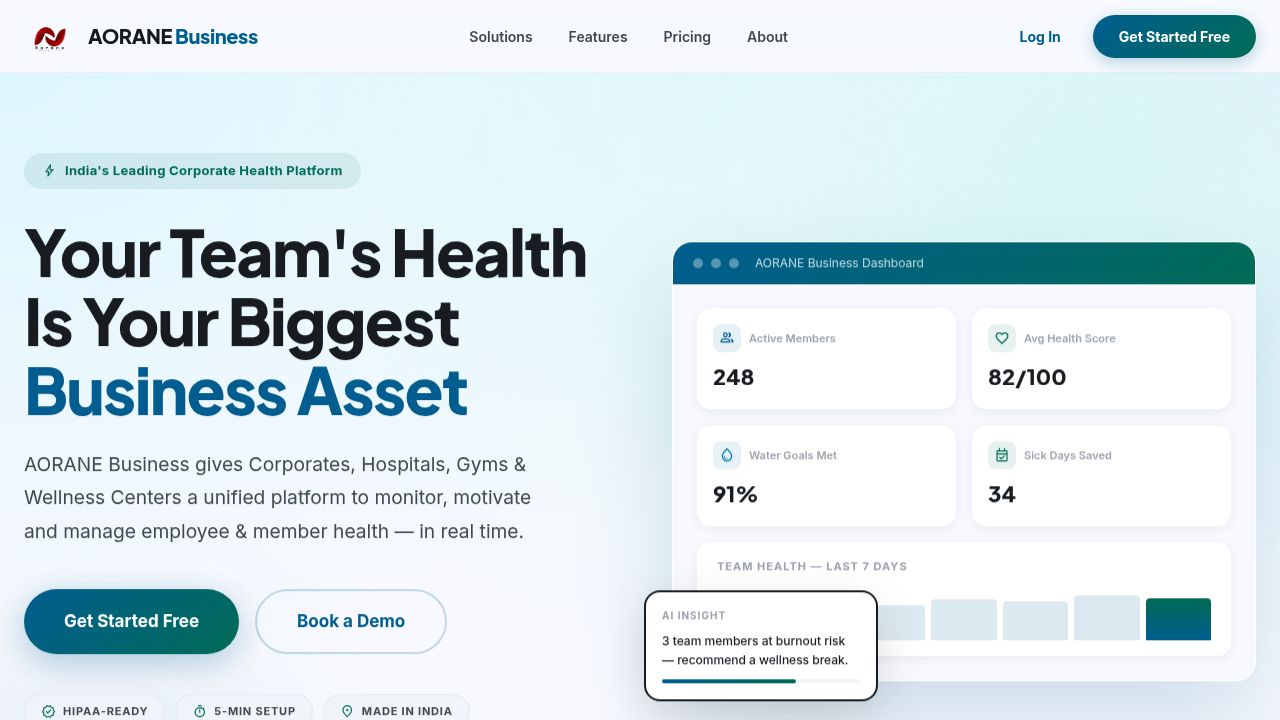
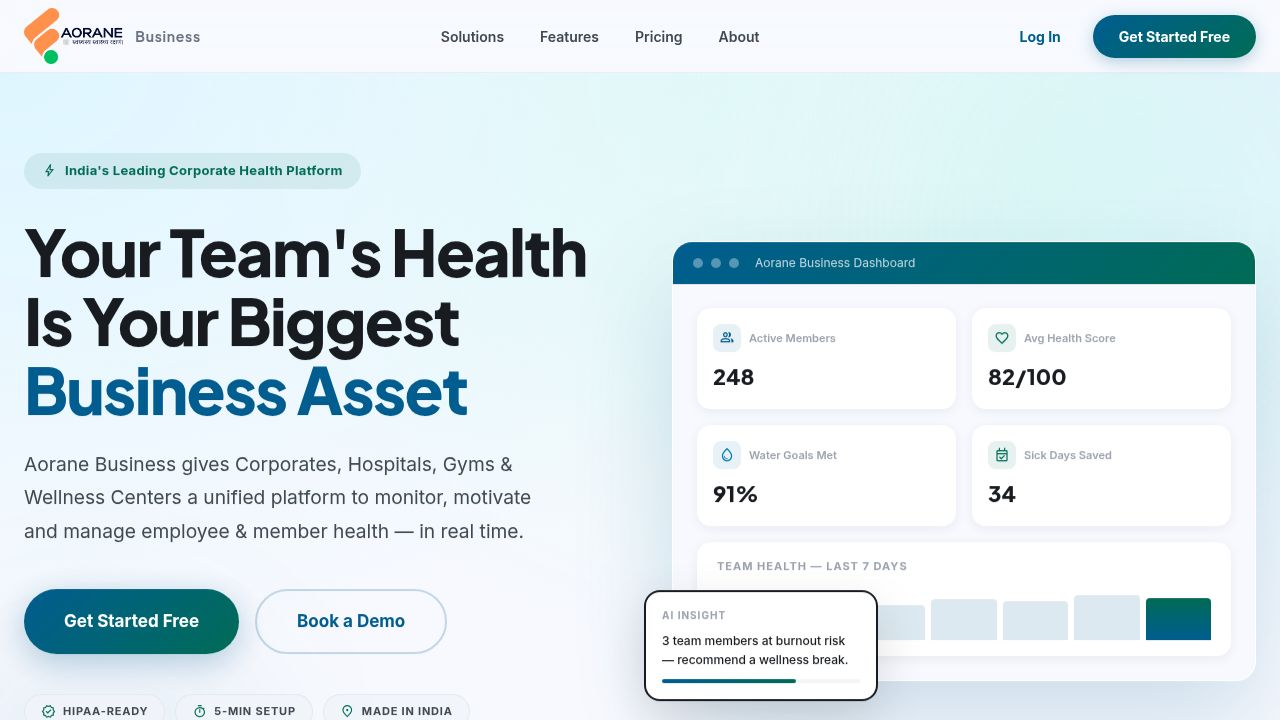
feat(business-portal): Phase 1 — Stitch design foundation
- Add Plus Jakarta Sans, Inter, JetBrains Mono, Noto Sans Devanagari, Material Symbols
- New utility classes: .font-display, .font-deva, .font-mono-data, .glass-card, .pill-chip, .kpi-number
- Switch sidebar to LIGHT theme (white) — Stitch-aligned
- Layout revamp: AORANE wordmark + आज़ाद जीवन subtitle, refined nav, light profile row
- Topbar: org-code pill (gated), notification bell, status footer (DPDP compliant • India)
- Dashboard: hero greeting card with time-aware salutation + Org Health Index pill
- KPI cards: rounded-2xl, kpi-number font, refined icon chip

ZERO backend / API / DB changes. All gating logic preserved.
Phase 1 of Stitch business-portal redesign.

diff --git a/artifacts/business-portal/src/components/Layout.tsx b/artifacts/business-portal/src/components/Layout.tsx
@@ -3,7 +3,7 @@ import { Link, useRoute } from "wouter";
 import { useAuth } from "@/context/AuthContext";
 import {
   LayoutDashboard, Users, QrCode, Settings, LogOut,
-  Menu, X, Building2, ChevronRight, Bell,
+  Menu, X, Bell, ChevronRight,
   BarChart2, Megaphone, CreditCard, ShieldCheck,
 } from "lucide-react";
 
@@ -22,13 +22,15 @@ function NavItem({ path, icon: Icon, label }: { path: string; icon: React.Elemen
   const [isActive] = useRoute(path);
   return (
     <Link href={path}>
-      <div className={`flex items-center gap-3 px-4 py-2.5 rounded-lg cursor-pointer transition-all duration-200 group
+      <div
+        className={`flex items-center gap-3 px-3 py-2.5 rounded-lg cursor-pointer transition-all duration-150 group
         ${isActive
-          ? "bg-primary/20 text-primary font-semibold"
-          : "text-sidebar-foreground/70 hover:bg-white/8 hover:text-sidebar-foreground"
-        }`}>
-        <Icon size={18} className={isActive ? "text-primary" : ""} />
-        <span className="text-sm">{label}</span>
+          ? "bg-primary/10 text-primary font-semibold"
+          : "text-foreground/70 hover:bg-sidebar-accent hover:text-foreground"
+        }`}
+      >
+        <Icon size={18} className={isActive ? "text-primary" : "text-foreground/55 group-hover:text-foreground/80"} />
+        <span className="text-sm font-medium">{label}</span>
         {isActive && <ChevronRight size={14} className="ml-auto text-primary" />}
       </div>
     </Link>
@@ -50,60 +52,77 @@ export default function Layout({ children }: { children: React.ReactNode }) {
     other: "Organization",
   };
 
+  const seatPct = org ? Math.min(100, (org.usedSeats / Math.max(1, org.totalSeats)) * 100) : 0;
+
   return (
     <div className="flex h-screen bg-background overflow-hidden">
       {/* Sidebar */}
-      <aside className={`fixed inset-y-0 left-0 z-50 w-64 bg-sidebar flex flex-col transition-transform duration-300
-        ${mobileOpen ? "translate-x-0" : "-translate-x-full"} lg:translate-x-0 lg:static lg:flex`}>
-
-        {/* Logo */}
-        <div className="px-6 pt-6 pb-4 border-b border-sidebar-border">
-          <Link href="/">
+      <aside
+        className={`fixed inset-y-0 left-0 z-50 w-64 bg-sidebar border-r border-sidebar-border flex flex-col transition-transform duration-300
+        ${mobileOpen ? "translate-x-0" : "-translate-x-full"} lg:translate-x-0 lg:static lg:flex`}
+      >
+        {/* Logo / Wordmark */}
+        <div className="px-5 pt-5 pb-4 border-b border-sidebar-border">
+          <Link href="/dashboard">
             <a className="flex items-center gap-3 cursor-pointer" aria-label="Business portal home">
-              <img src={import.meta.env.BASE_URL + 'logo-full.png?v=3'} alt="Aorane" style={{ height: 56, width: "auto", objectFit: "contain", background: "white", borderRadius: 8, padding: 4 }} />
-              <div>
-                <div className="text-sidebar-foreground/50 text-xs">Business Portal</div>
+              <div className="w-10 h-10 rounded-full bg-gradient-to-br from-primary to-secondary flex items-center justify-center shadow-sm shrink-0">
+                <span className="text-white font-bold text-lg font-display">A</span>
+              </div>
+              <div className="leading-tight">
+                <div className="font-display font-extrabold text-lg tracking-tight text-foreground">AORANE</div>
+                <div className="font-deva text-[11px] text-primary/80 -mt-0.5">आज़ाद जीवन</div>
               </div>
             </a>
           </Link>
 
-          {/* Org info */}
-          <div className="mt-4 p-3 rounded-lg bg-white/5 border border-white/8">
-            <div className="text-white/90 text-sm font-semibold truncate">{org?.name}</div>
-            <div className="text-white/40 text-xs mt-0.5">{orgTypeLabels[org?.orgType || ""] || "Organization"}</div>
-            <div className="flex items-center gap-1 mt-2">
-              <div className="h-1.5 flex-1 bg-white/10 rounded-full overflow-hidden">
-                <div
-                  className="h-full bg-primary rounded-full transition-all"
-                  style={{ width: `${Math.min(100, ((org?.usedSeats || 0) / (org?.totalSeats || 1)) * 100)}%` }}
-                />
+          {/* Org info card */}
+          {org && (
+            <div className="mt-4 p-3 rounded-xl bg-sidebar-accent/60 border border-sidebar-border">
+              <div className="text-foreground text-sm font-semibold truncate">{org.name}</div>
+              <div className="text-muted-foreground text-[11px] mt-0.5">{orgTypeLabels[org.orgType || ""] || "Organization"}</div>
+              <div className="flex items-center gap-2 mt-2">
+                <div className="h-1.5 flex-1 bg-muted rounded-full overflow-hidden">
+                  <div
+                    className="h-full bg-gradient-to-r from-primary to-secondary rounded-full transition-all"
+                    style={{ width: `${seatPct}%` }}
+                  />
+                </div>
+                <span className="text-muted-foreground text-[10px] font-mono-data tabular-nums">
+                  {org.usedSeats}/{org.totalSeats}
+                </span>
               </div>
-              <span className="text-white/40 text-xs">{org?.usedSeats}/{org?.totalSeats}</span>
             </div>
-          </div>
+          )}
         </div>
 
         {/* Nav */}
-        <nav className="flex-1 px-3 py-4 space-y-1 overflow-y-auto">
+        <nav className="flex-1 px-3 py-4 space-y-0.5 overflow-y-auto">
           {navItems.map((item) => (
-            <NavItem key={item.path} {...item} />
+            <div key={item.path} onClick={() => setMobileOpen(false)}>
+              <NavItem {...item} />
+            </div>
           ))}
         </nav>
 
         {/* User footer */}
-        <div className="px-3 pb-4 border-t border-sidebar-border pt-4">
-          <div className="flex items-center gap-3 px-3 py-2 rounded-lg">
-            <div className="w-8 h-8 rounded-full bg-primary/30 flex items-center justify-center">
-              <span className="text-primary text-sm font-bold">
-                {admin?.fullName?.charAt(0).toUpperCase()}
+        <div className="px-3 pb-4 pt-3 border-t border-sidebar-border">
+          <div className="flex items-center gap-3 px-2 py-2 rounded-lg hover:bg-sidebar-accent transition-colors">
+            <div className="w-9 h-9 rounded-full bg-gradient-to-br from-primary/20 to-secondary/20 flex items-center justify-center shrink-0 border border-primary/15">
+              <span className="text-primary text-sm font-bold font-display">
+                {admin?.fullName?.charAt(0).toUpperCase() || "A"}
               </span>
             </div>
             <div className="flex-1 min-w-0">
-              <div className="text-white/90 text-sm font-medium truncate">{admin?.fullName}</div>
-              <div className="text-white/40 text-xs capitalize">{admin?.role}</div>
+              <div className="text-foreground text-sm font-medium truncate">{admin?.fullName}</div>
+              <div className="text-muted-foreground text-[11px] capitalize">{admin?.role || "admin"}</div>
             </div>
-            <button onClick={logout} className="text-white/30 hover:text-destructive transition-colors p-1 rounded" title="Logout">
-              <LogOut size={16} />
+            <button
+              onClick={logout}
+              className="text-muted-foreground hover:text-destructive transition-colors p-1.5 rounded"
+              title="Logout"
+              aria-label="Logout"
+            >
+              <LogOut size={15} />
             </button>
           </div>
         </div>
@@ -111,36 +130,52 @@ export default function Layout({ children }: { children: React.ReactNode }) {
 
       {/* Mobile overlay */}
       {mobileOpen && (
-        <div className="fixed inset-0 bg-black/60 z-40 lg:hidden" onClick={() => setMobileOpen(false)} />
+        <div className="fixed inset-0 bg-black/40 backdrop-blur-sm z-40 lg:hidden" onClick={() => setMobileOpen(false)} />
       )}
 
       {/* Main */}
       <div className="flex-1 flex flex-col min-w-0 overflow-hidden">
         {/* Topbar */}
-        <header className="h-14 bg-card border-b border-border flex items-center gap-4 px-4 shrink-0">
+        <header className="h-14 bg-card/80 backdrop-blur-md border-b border-border flex items-center gap-3 px-4 shrink-0">
           <button
             className="lg:hidden p-2 rounded-lg hover:bg-muted transition-colors"
             onClick={() => setMobileOpen(!mobileOpen)}
+            aria-label="Toggle menu"
           >
             {mobileOpen ? <X size={20} /> : <Menu size={20} />}
           </button>
           <div className="flex-1" />
-          <div className="flex items-center gap-3">
-            {isPaidActive && (
-              <span className="text-xs text-muted-foreground bg-muted px-2 py-1 rounded-md font-mono">
-                {org?.orgCode}
+          <div className="flex items-center gap-2">
+            {isPaidActive && org?.orgCode && (
+              <span className="hidden sm:inline-flex items-center pill-chip bg-secondary/10 text-secondary border border-secondary/20 font-mono-data">
+                {org.orgCode}
               </span>
             )}
-            <button className="p-2 rounded-lg hover:bg-muted transition-colors text-muted-foreground">
+            <button
+              className="p-2 rounded-lg hover:bg-muted transition-colors text-muted-foreground"
+              aria-label="Notifications"
+            >
               <Bell size={18} />
             </button>
           </div>
         </header>
 
         {/* Page content */}
-        <main className="flex-1 overflow-y-auto">
+        <main className="flex-1 overflow-y-auto bg-background">
           {children}
         </main>
+
+        {/* Status footer */}
+        <footer className="hidden md:flex items-center justify-between px-4 py-1.5 text-[10px] uppercase tracking-wider text-muted-foreground/60 border-t border-border bg-card/40">
+          <div className="flex items-center gap-2">
+            <span className="inline-block w-1.5 h-1.5 rounded-full bg-emerald-500" />
+            <span>All Systems Operational</span>
+            <span className="opacity-50">•</span>
+            <ShieldCheck size={11} className="text-primary/70" />
+            <span>DPDP Act 2023 Compliant</span>
+          </div>
+          <div className="font-mono-data">India (IN)</div>
+        </footer>
       </div>
     </div>
   );

diff --git a/artifacts/business-portal/src/pages/Dashboard.tsx b/artifacts/business-portal/src/pages/Dashboard.tsx
@@ -32,17 +32,24 @@ function StatCard({ label, value, sub, icon: Icon, color }: {
   icon: React.ElementType; color: string;
 }) {
   return (
-    <div className="bg-white border border-[#E5E7EB] rounded-xl p-5">
-      <div className="flex items-center justify-between mb-3">
-        <span className="text-[#6B7280] text-sm font-medium">{label}</span>
-        <div className="w-9 h-9 rounded-lg flex items-center justify-center" style={{ backgroundColor: `${color}18` }}>
-          <Icon size={18} style={{ color }} />
+    <div className="bg-card border border-border rounded-2xl p-5 hover:border-primary/20 transition-colors">
+      <div className="flex items-start justify-between mb-3">
+        <span className="text-muted-foreground text-[11px] font-semibold uppercase tracking-wider">{label}</span>
+        <div className="w-9 h-9 rounded-full flex items-center justify-center shrink-0" style={{ backgroundColor: `${color}1a` }}>
+          <Icon size={16} style={{ color }} />
         </div>
       </div>
-      <div className="text-2xl font-bold text-[#0D1F33]">{value}</div>
-      {sub && <div className="text-xs text-[#9CA3AF] mt-1">{sub}</div>}
+      <div className="kpi-number text-3xl text-foreground">{value}</div>
+      {sub && <div className="text-[11px] text-muted-foreground mt-1.5">{sub}</div>}
     </div>
   );
+}
+
+function getGreeting() {
+  const h = new Date().getHours();
+  if (h < 12) return { text: "Good morning", emoji: "👋" };
+  if (h < 17) return { text: "Good afternoon", emoji: "☀" };
+  return { text: "Good evening", emoji: "🌙" };
 }
 
 function HealthCircle({ label, value, color, icon: Icon }: {
@@ -72,7 +79,9 @@ function HealthCircle({ label, value, color, icon: Icon }: {
 }
 
 export default function Dashboard() {
-  const { org, isPaidActive, subscriptionLoading } = useAuth();
+  const { admin, org, isPaidActive, subscriptionLoading } = useAuth();
+  const greeting = getGreeting();
+  const firstName = admin?.fullName?.split(" ")[0] || "there";
   const [overview, setOverview] = useState<Overview | null>(null);
   const [analytics, setAnalytics] = useState<HealthAnalytics | null>(null);
   const [copied, setCopied] = useState(false);
@@ -112,10 +121,27 @@ export default function Dashboard() {
 
   return (
     <Layout>
-      <div className="p-6 max-w-5xl mx-auto">
-        <div className="mb-6">
-          <h1 className="text-2xl font-bold text-[#0D1F33]">Dashboard</h1>
-          <p className="text-[#6B7280] text-sm mt-0.5">Organization overview &amp; aggregate health insights</p>
+      <div className="p-6 max-w-6xl mx-auto">
+        {/* Hero Greeting Card */}
+        <div className="mb-6 rounded-2xl p-6 border border-primary/15 bg-gradient-to-br from-primary/5 via-secondary/5 to-transparent relative overflow-hidden">
+          <div className="absolute inset-0 opacity-30 pointer-events-none"
+            style={{ backgroundImage: "radial-gradient(circle at 90% 20%, rgba(0,119,182,0.15), transparent 40%)" }} />
+          <div className="relative flex items-start justify-between flex-wrap gap-4">
+            <div>
+              <h1 className="font-display font-extrabold text-3xl md:text-4xl text-foreground tracking-tight">
+                {greeting.text}, {firstName} <span className="inline-block">{greeting.emoji}</span>
+              </h1>
+              <p className="text-muted-foreground text-sm mt-1.5 max-w-md">
+                Here's what's happening with <span className="font-semibold text-foreground">{org?.name || "your organization"}</span> today.
+              </p>
+            </div>
+            {analytics && analytics.totalMembers > 0 && (
+              <div className="rounded-xl bg-card/70 backdrop-blur border border-border px-4 py-3 min-w-[160px]">
+                <div className="text-[10px] uppercase tracking-wider text-muted-foreground font-semibold">Org Health Index</div>
+                <div className="kpi-number text-2xl text-primary mt-1">{analytics.avgHealthScore}<span className="text-base text-muted-foreground font-normal">/100</span></div>
+              </div>
+            )}
+          </div>
         </div>
 
         {/* Enrollment Code Banner — only after active subscription */}

diff --git a/artifacts/business-portal/src/index.css b/artifacts/business-portal/src/index.css
@@ -1,3 +1,6 @@
+@import url('https://fonts.googleapis.com/css2?family=Plus+Jakarta+Sans:wght@400;500;600;700;800&family=Inter:wght@400;500;600;700&family=JetBrains+Mono:wght@400;500;600&family=Noto+Sans+Devanagari:wght@400;500;600&display=swap');
+@import url('https://fonts.googleapis.com/css2?family=Material+Symbols+Outlined:opsz,wght,FILL,GRAD@24,400,0,0&display=swap');
+
 @import "tailwindcss";
 @import "tw-animate-css";
 @plugin "@tailwindcss/typography";
@@ -88,13 +91,14 @@
   --popover-foreground: 216 77% 7%;
   --popover-border: 210 40% 90%;
 
-  --sidebar: 216 77% 7%;
-  --sidebar-foreground: 210 40% 90%;
-  --sidebar-border: 216 50% 14%;
+  /* LIGHT sidebar — Stitch Aorane look */
+  --sidebar: 0 0% 100%;
+  --sidebar-foreground: 216 30% 18%;
+  --sidebar-border: 220 30% 92%;
   --sidebar-primary: 202 100% 36%;
   --sidebar-primary-foreground: 0 0% 100%;
-  --sidebar-accent: 174 70% 35%;
-  --sidebar-accent-foreground: 0 0% 100%;
+  --sidebar-accent: 210 40% 96%;
+  --sidebar-accent-foreground: 202 100% 30%;
   --sidebar-ring: 202 100% 36%;
 
   /* AORANE Blue Primary */
@@ -119,10 +123,12 @@
   --chart-4: 0 84% 60%;
   --chart-5: 270 70% 55%;
 
-  --app-font-sans: 'Inter', 'Segoe UI', sans-serif;
+  --app-font-sans: 'Inter', 'Segoe UI', system-ui, sans-serif;
+  --app-font-display: 'Plus Jakarta Sans', 'Inter', sans-serif;
+  --app-font-deva: 'Noto Sans Devanagari', 'Inter', sans-serif;
   --app-font-serif: Georgia, serif;
-  --app-font-mono: Menlo, monospace;
-  --radius: 0.625rem;
+  --app-font-mono: 'JetBrains Mono', Menlo, monospace;
+  --radius: 0.75rem;
 
   --primary-border: hsl(from hsl(var(--primary)) h s calc(l + var(--opaque-button-border-intensity)) / alpha);
   --secondary-border: hsl(from hsl(var(--secondary)) h s calc(l + var(--opaque-button-border-intensity)) / alpha);
@@ -218,4 +224,49 @@
 }
 .gradient-btn:hover {
   background: linear-gradient(135deg, #005f91, #157a6e);
+}
+
+/* Stitch-aligned utilities */
+.font-display { font-family: var(--app-font-display); letter-spacing: -0.01em; }
+.font-deva { font-family: var(--app-font-deva); }
+.font-mono-data { font-family: var(--app-font-mono); font-feature-settings: "tnum"; letter-spacing: 0.02em; }
+.tabular-nums { font-variant-numeric: tabular-nums; }
+
+.glass-card {
+  background: rgba(255,255,255,0.85);
+  backdrop-filter: blur(20px);
+  -webkit-backdrop-filter: blur(20px);
+  border: 1px solid rgba(0,119,182,0.08);
+}
+
+.pill-chip {
+  display: inline-flex; align-items: center; gap: 0.375rem;
+  padding: 0.25rem 0.625rem; border-radius: 9999px;
+  font-size: 11px; font-weight: 600; letter-spacing: 0.03em;
+  font-family: var(--app-font-sans);
+}
+
+.kpi-number {
+  font-family: var(--app-font-display);
+  font-weight: 700;
+  font-variant-numeric: tabular-nums;
+  letter-spacing: -0.02em;
+  line-height: 1.1;
+}
+
+/* Material symbols inline alignment */
+.material-symbols-outlined {
+  font-family: 'Material Symbols Outlined';
+  font-weight: normal;
+  font-style: normal;
+  display: inline-block;
+  line-height: 1;
+  letter-spacing: normal;
+  text-transform: none;
+  white-space: nowrap;
+  word-wrap: normal;
+  direction: ltr;
+  -webkit-font-feature-settings: 'liga';
+  -webkit-font-smoothing: antialiased;
+  vertical-align: middle;
 }
